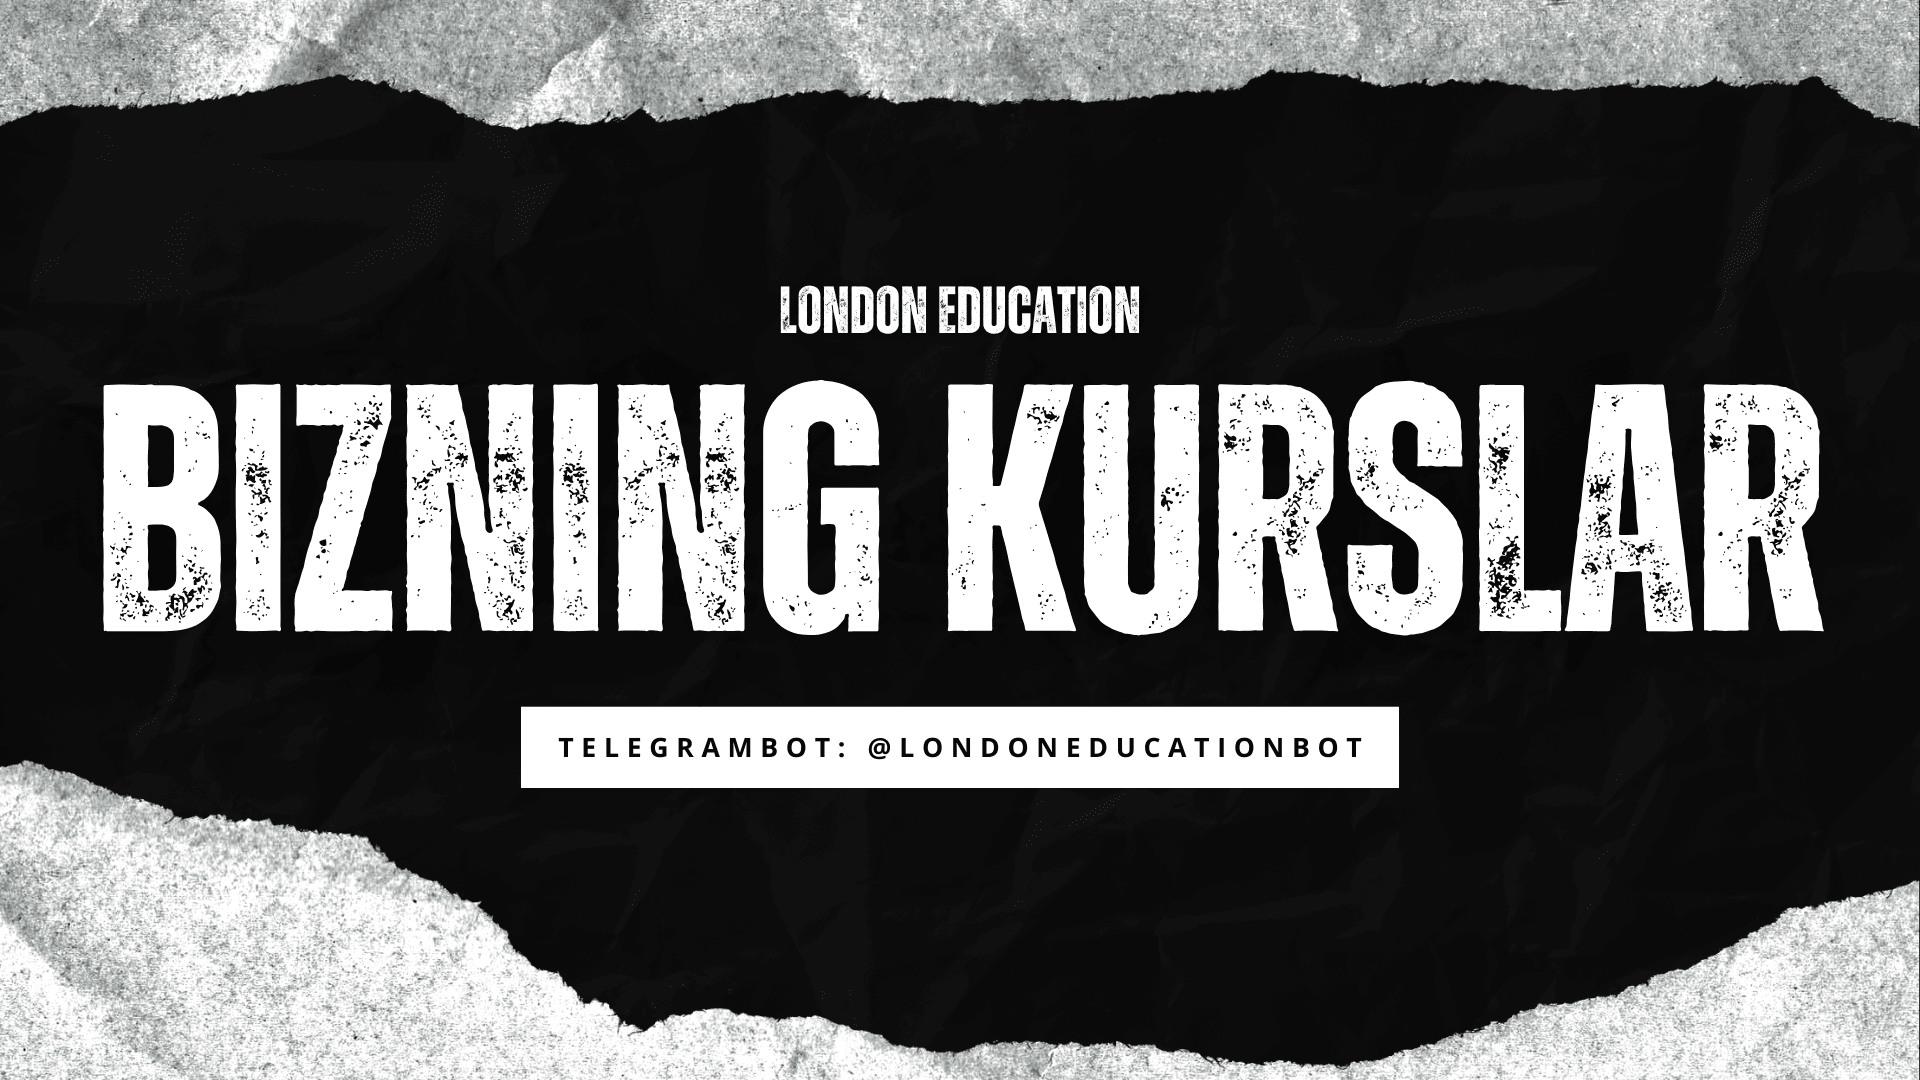
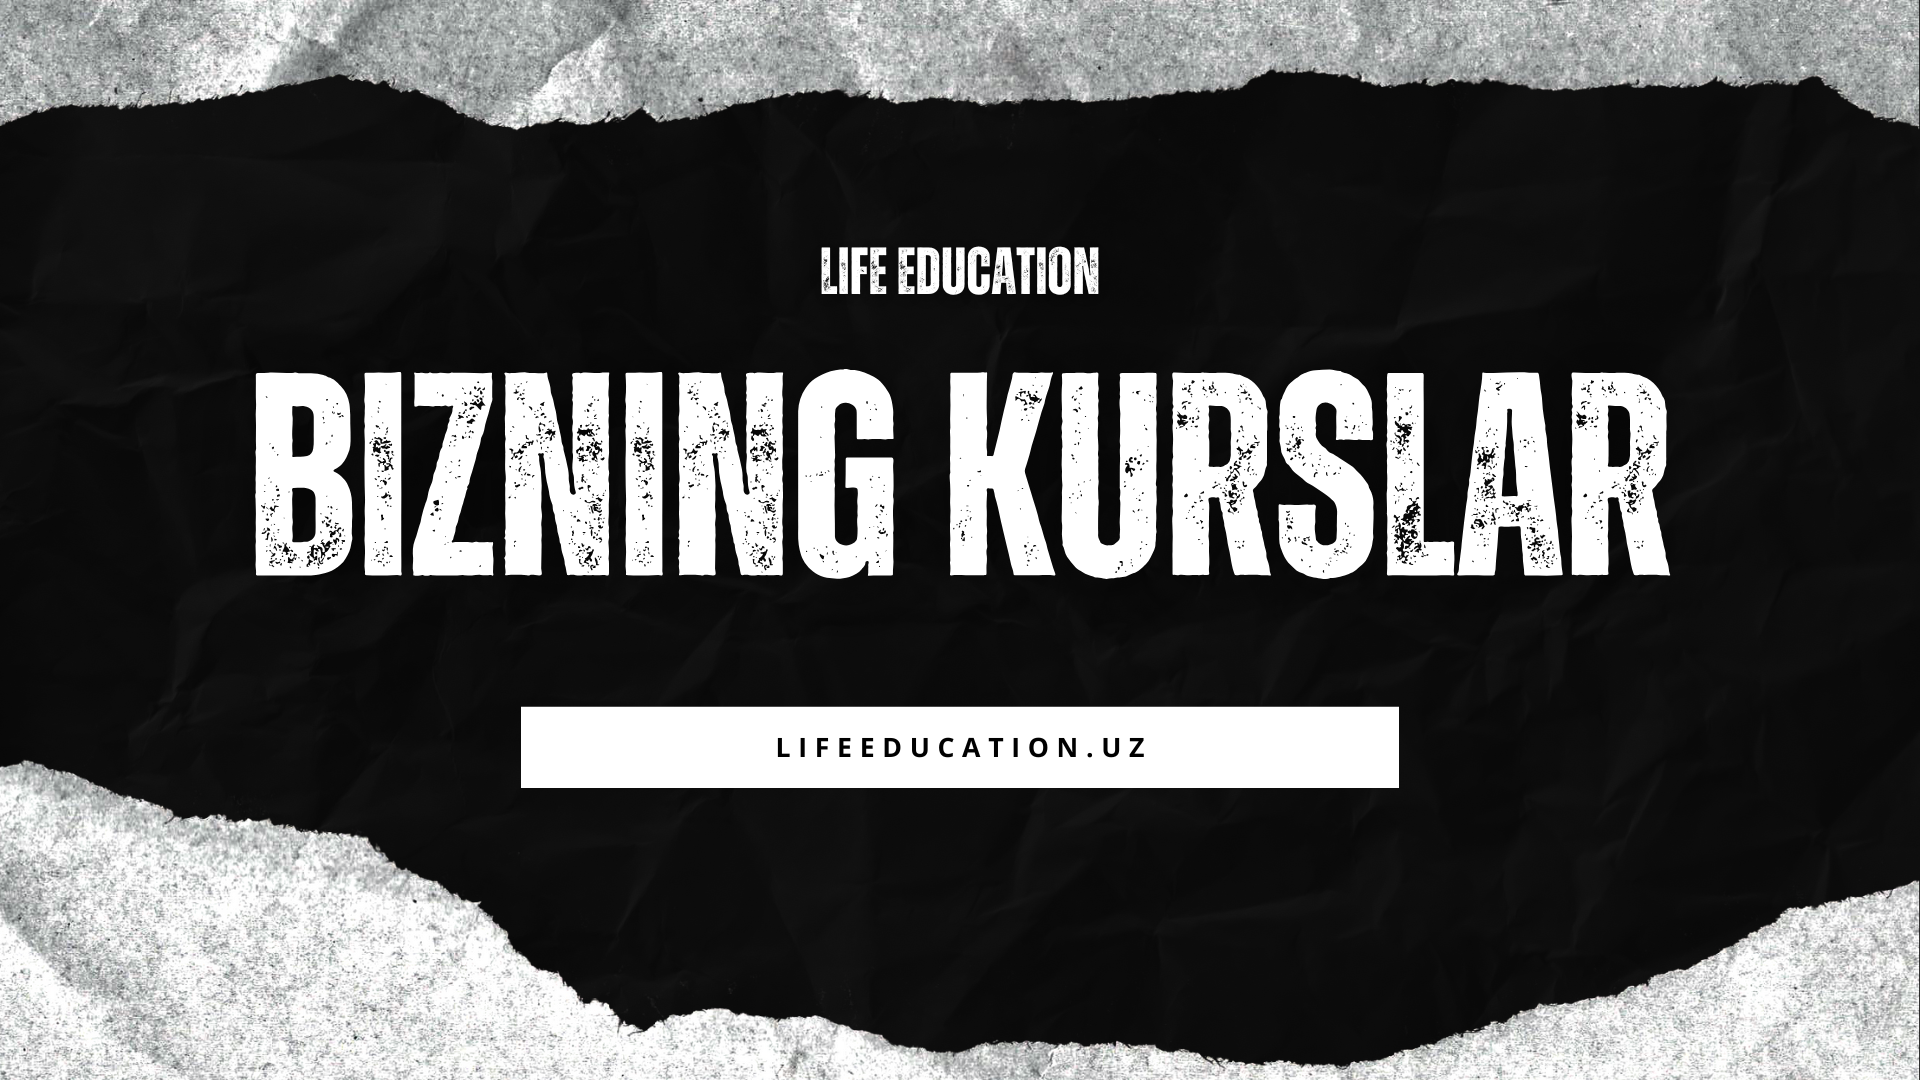
sdfas

Changed region(s): [[0.0312, 0.3361, 0.9688, 0.6111], [0.4062, 0.2139, 0.5938, 0.3056], [0.2812, 0.6722, 0.7188, 0.7028]]

diff --git a/src/parent-bot/parent-bot.service.ts b/src/parent-bot/parent-bot.service.ts
@@ -808,7 +808,7 @@ export class ParentBotService implements OnModuleInit {
           `👥 Guruh: <b>${groupName}</b>\n` +               
           `📆 Sana: <b>${attendanceDate}</b>\n` +           
           `📊 Holat: <b>${attendanceStatus}</b>\n\n` +   
-          `<i>Hurmat bilan, ${escapeHTML("London Education")}</i>`
+          `<i>Hurmat bilan, ${escapeHTML("Life Education")}</i>`
           ;
         try {
           await this.bot.telegram.sendMessage(parentChat.telegramChatId, message, { parse_mode: 'HTML' });
@@ -868,7 +868,7 @@ export class ParentBotService implements OnModuleInit {
           `📅 Sana: <b>${paymentDate}</b>\n` +
           `💳 Summa: <b>${paymentAmount} so'm</b>\n` +
           `🛒 To'lov turi: ${paymentType}\n` +
-          `<i>Hurmat bilan, ${escapeHTML("London Education")}</i>`;
+          `<i>Hurmat bilan, ${escapeHTML("Life Education")}</i>`;
         try {
           await this.bot.telegram.sendMessage(parentChat.telegramChatId, message, { parse_mode: 'HTML' });
           this.logger.log(`To'lov xabarnomasi ${parentChat.telegramChatId} (${studentName}, ${paymentAmount} so'm) ga yuborildi.`);
@@ -923,7 +923,7 @@ export class ParentBotService implements OnModuleInit {
         message += `📅 Sana: <b>${feedbackDate}</b>\n`;
         message += `⭐ Ball: <b>${feedback.ball}</b>\n`;
         message += `💬 Fikr: <i>${escapeHTML(feedback.feedback)}</i>\n\n`;
-        message += `<i>Hurmat bilan, ${escapeHTML("London Education")}</i>`;
+        message += `<i>Hurmat bilan, ${escapeHTML("Life Education")}</i>`;
 
         try {
           await this.bot.telegram.sendMessage(parentChat.telegramChatId, message, { parse_mode: 'HTML' });
